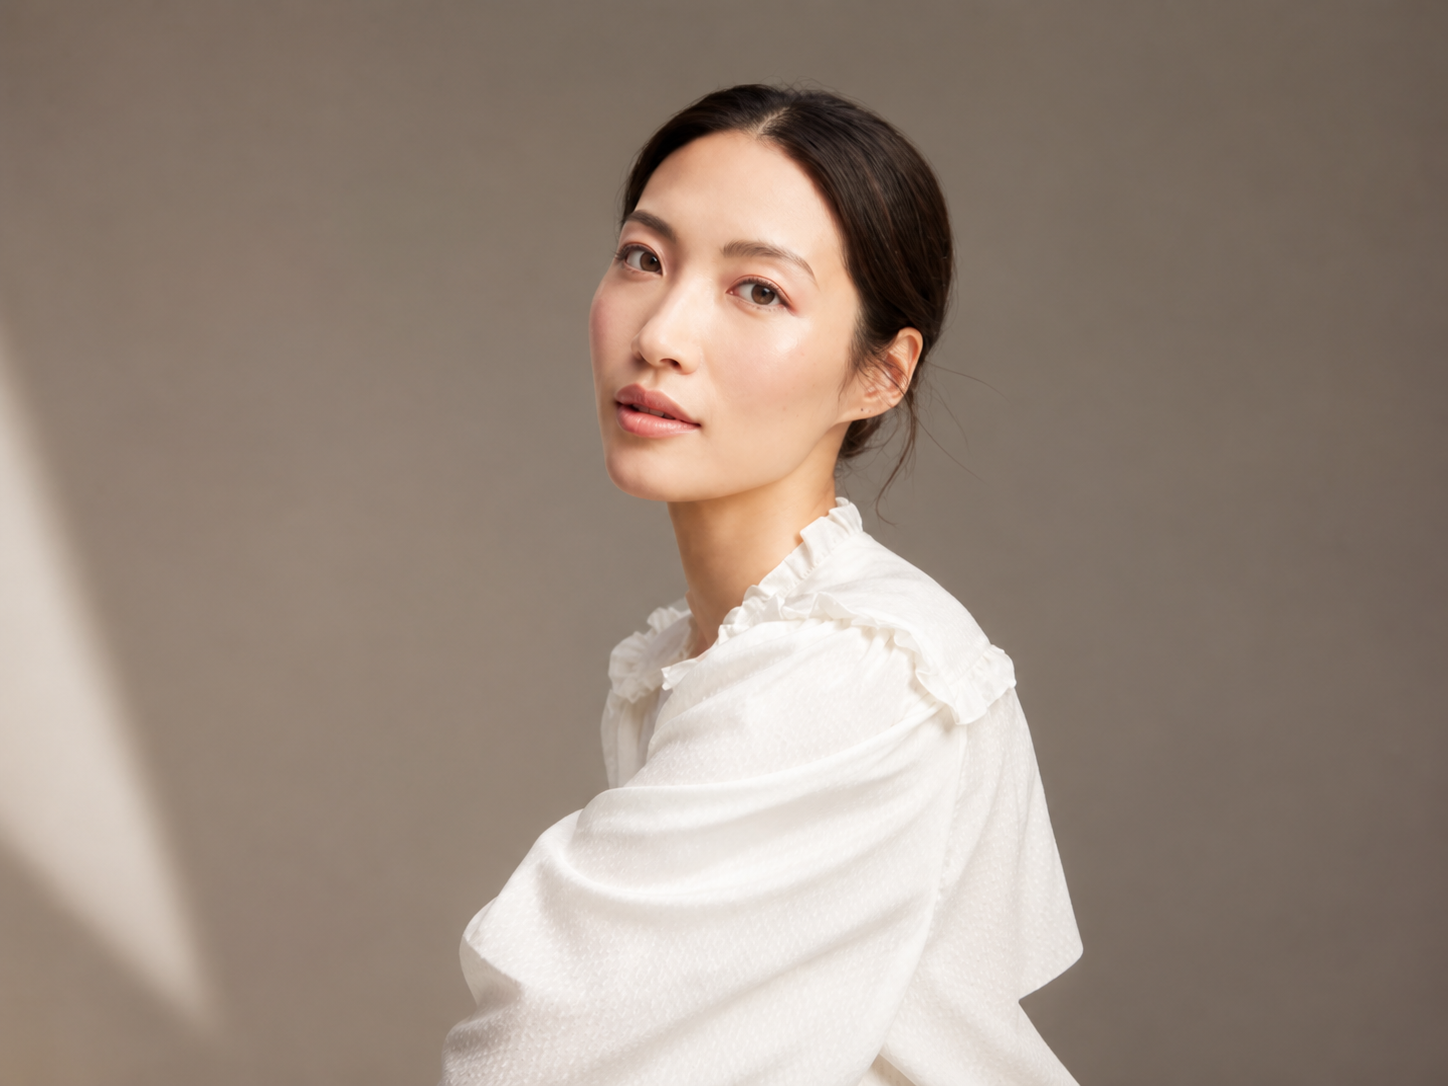
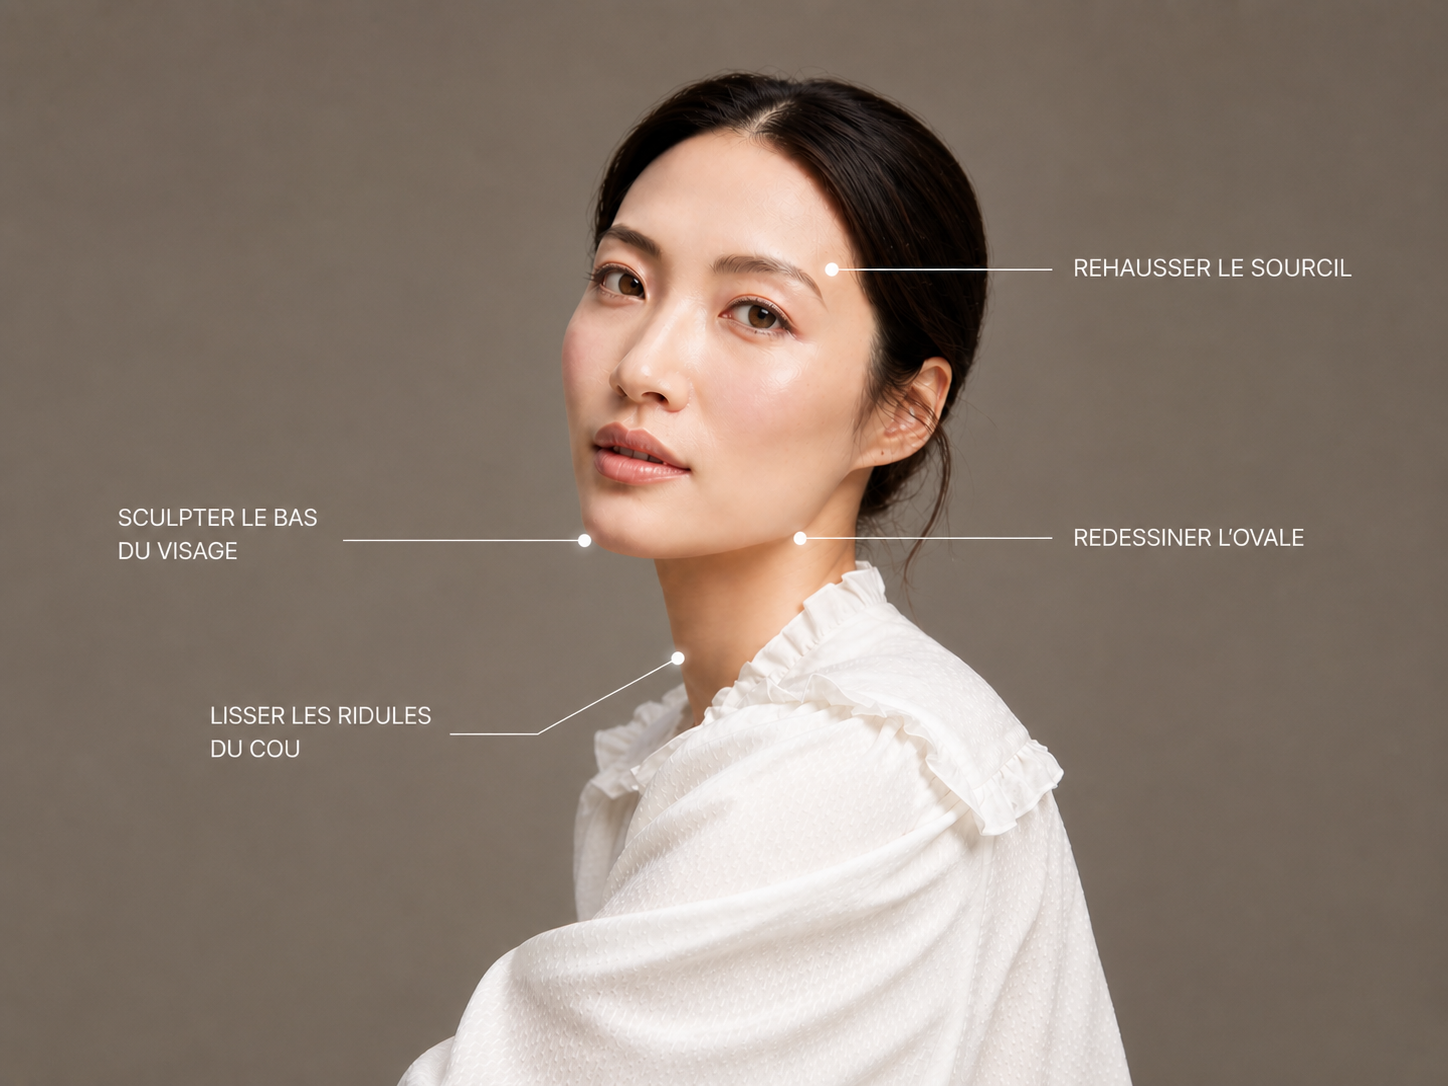
feat: Update Ultherapy page with new images and improved layout

diff --git a/style.css b/style.css
@@ -1746,7 +1746,8 @@ h1 span {
 }
 
 .body-focus-main-cta {
-  margin: 28px auto 0;
+  display: flex;
+  margin: 44px auto 0;
 }
 
 .body-focus-gallery-item {
@@ -1754,18 +1755,31 @@ h1 span {
   flex: 1 1 0;
   margin: 0;
   position: relative;
-  overflow: hidden;
   border-radius: 8px;
-  background: #f5efe8;
-  aspect-ratio: 4 / 5;
+  background: transparent;
+  margin-bottom: 22px;
+  margin-top: 32px;
 }
 
 .body-focus-gallery-item img {
   width: 100%;
-  height: 100%;
+  height: auto;
   display: block;
+  aspect-ratio: 4 / 3;
   object-fit: cover;
   object-position: center;
+  overflow: hidden;
+  border-radius: 8px;
+  background: #f5efe8;
+}
+
+.body-focus-gallery-item figcaption {
+  margin-top: 12px;
+  color: rgba(0, 0, 0, 0.76);
+  font-size: 15px;
+  font-weight: 500;
+  line-height: 1.35;
+  text-align: center;
 }
 
 .body-focus-badge {

diff --git a/index.html b/index.html
@@ -41,7 +41,7 @@
         </p>
 
         <div class="hero-actions">
-          <a class="watch-btn" href="#praticien">Trouver Ultherapy<sup>®</sup> PRIME autour de chez moi</a>
+          <a class="watch-btn" href="#praticien">Trouver Ultherapy® PRIME autour de chez moi</a>
           <a class="secondary-btn" href="#">Découvrez Ultherapy<sup>®</sup> PRIME pour les bras et le ventre</a>
         </div>
 
@@ -66,7 +66,7 @@
           <p>Ultherapy<sup>®</sup> PRIME stimule la production naturelle de collagène et d'élastine en profondeur, là où le relâchement s'installe.</p>
           <p>Les résultats sont naturels<sup>3,4</sup>, progressifs et durables, et peuvent être visibles jusqu'à un an ou plus.*</p>
           <p class="benefit-intro-footnote">* Les résultats s'améliorent en 90 à 180 jours et peuvent durer jusqu'à un an.<sup>1,3,4,5,6,7</sup></p>
-          <a class="watch-btn benefit-intro-btn" href="#praticien">Trouver Ultherapy<sup>®</sup> PRIME autour de chez moi</a>
+          <a class="watch-btn benefit-intro-btn" href="#praticien">Trouver Ultherapy® PRIME autour de chez moi</a>
         </div>
         <figure class="benefit-intro-visual">
           <img src="img/model-sunlee.jpg" alt="Résultats Ultherapy PRIME">
@@ -106,7 +106,7 @@
           </div>
         </div>
         <div class="advantages-cta">
-          <a class="watch-btn" href="#praticien">Trouver Ultherapy<sup>®</sup> PRIME autour de chez moi</a>
+          <a class="watch-btn" href="#praticien">Trouver Ultherapy® PRIME autour de chez moi</a>
           <p class="advantages-footnote">* Les résultats s'améliorent en 90 à 180 jours et peuvent durer jusqu'à un an.<sup>1,3,4,5,6,7</sup></p>
         </div>
       </div>
@@ -162,7 +162,7 @@
           </article>
         </div>
 
-        <a class="watch-btn" href="#praticien">Trouver Ultherapy<sup>®</sup> PRIME autour de chez moi</a>
+        <a class="watch-btn" href="#praticien">Trouver Ultherapy® PRIME autour de chez moi</a>
       </div>
     </section>
 
@@ -203,19 +203,22 @@
 
         <div class="body-focus-gallery" aria-label="Zones corps : bras et abdomen">
           <figure class="body-focus-gallery-item">
-            <img src="img/zone-bras-ant.jpg" alt="Zone bras antérieur traitée par Ultherapy PRIME">
+            <img src="img/decolte.png" alt="Zone du décolleté traitée par Ultherapy PRIME">
+            <figcaption>Décolleté</figcaption>
           </figure>
           <figure class="body-focus-gallery-item is-new">
             <span class="body-focus-badge">NEW</span>
-            <img src="img/zone-bras-post.jpg" alt="Zone bras postérieur traitée par Ultherapy PRIME">
+            <img src="img/abdomen.png" alt="Zone abdomen traitée par Ultherapy PRIME">
+            <figcaption>Abdomen</figcaption>
           </figure>
           <figure class="body-focus-gallery-item is-new">
             <span class="body-focus-badge">NEW</span>
-            <img src="img/zone-abdomen.jpg" alt="Zone abdomen traitée par Ultherapy PRIME">
+            <img src="img/bras-anterieur.png" alt="Zone bras antérieur traitée par Ultherapy PRIME">
+            <figcaption>Bras antérieur</figcaption>
           </figure>
         </div>
 
-        <a class="watch-btn body-focus-main-cta" href="#praticien">Trouver Ultherapy<sup>®</sup> PRIME autour de chez moi</a>
+        <a class="watch-btn body-focus-main-cta" href="#praticien">Trouver Ultherapy® PRIME autour de chez moi</a>
       </div>
     </section>
 
@@ -231,7 +234,7 @@
           <img src="img/img-section-visage.png" alt="Indications visage et cou Ultherapy PRIME">
         </figure>
 
-        <a class="watch-btn face-recap-btn" href="#praticien">Trouver Ultherapy<sup>®</sup> PRIME autour de chez moi</a>
+        <a class="watch-btn face-recap-btn" href="#praticien">Trouver Ultherapy® PRIME autour de chez moi</a>
       </div>
     </section>
 
@@ -241,7 +244,7 @@
           <p class="benefits-tag">La technologie HIFU</p> <br><br>
           <h2 id="benefits-title">Comment ça <span>fonctionne ?</span></h2>
           <p>Ultherapy<sup>®</sup> PRIME repose sur la technologie HIFU (High-Intensity Focused Ultrasound), des ultrasons microfocalisés capables de cibler avec précision les couches profondes de la peau, jusqu'à 4,5 mm de profondeur. Les brèves augmentations de température, envoyées à la profondeur précise requise, relancent le processus de cicatrisation de votre corps pour créer du nouveau collagène : un phénomène appelé la néocollagénèse.</p>
-          <a class="watch-btn benefits-btn" href="#praticien">Trouver Ultherapy<sup>®</sup> PRIME autour de chez moi</a>
+          <a class="watch-btn benefits-btn" href="#praticien">Trouver Ultherapy® PRIME autour de chez moi</a>
         </div>
 
         <div class="benefits-video-block">